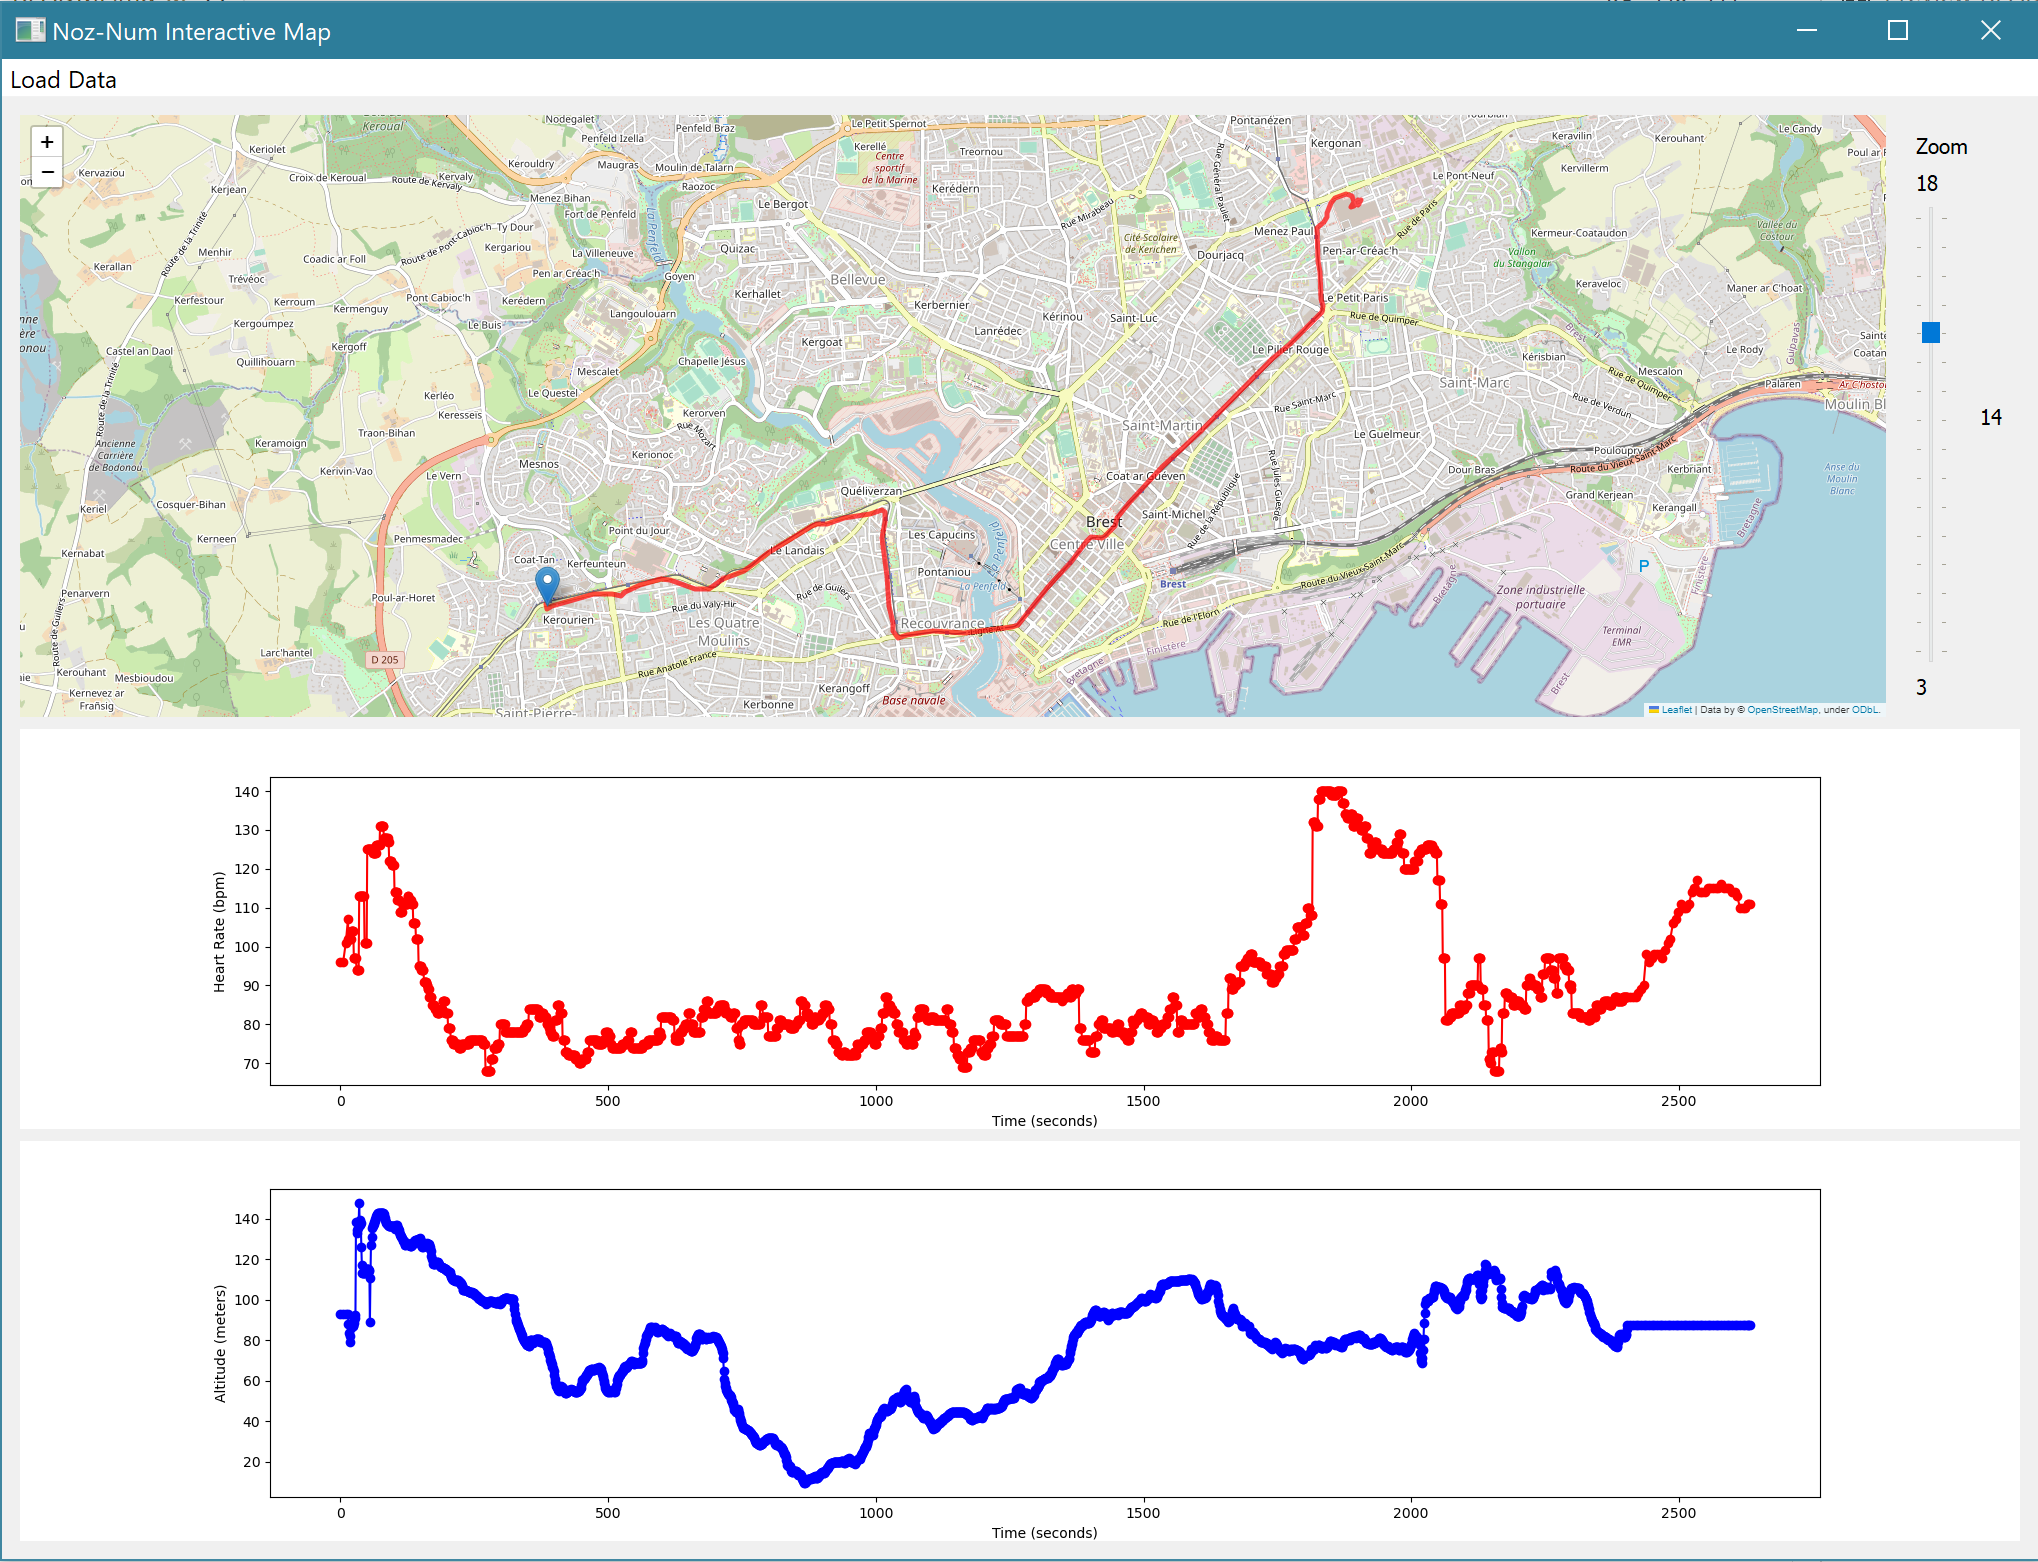
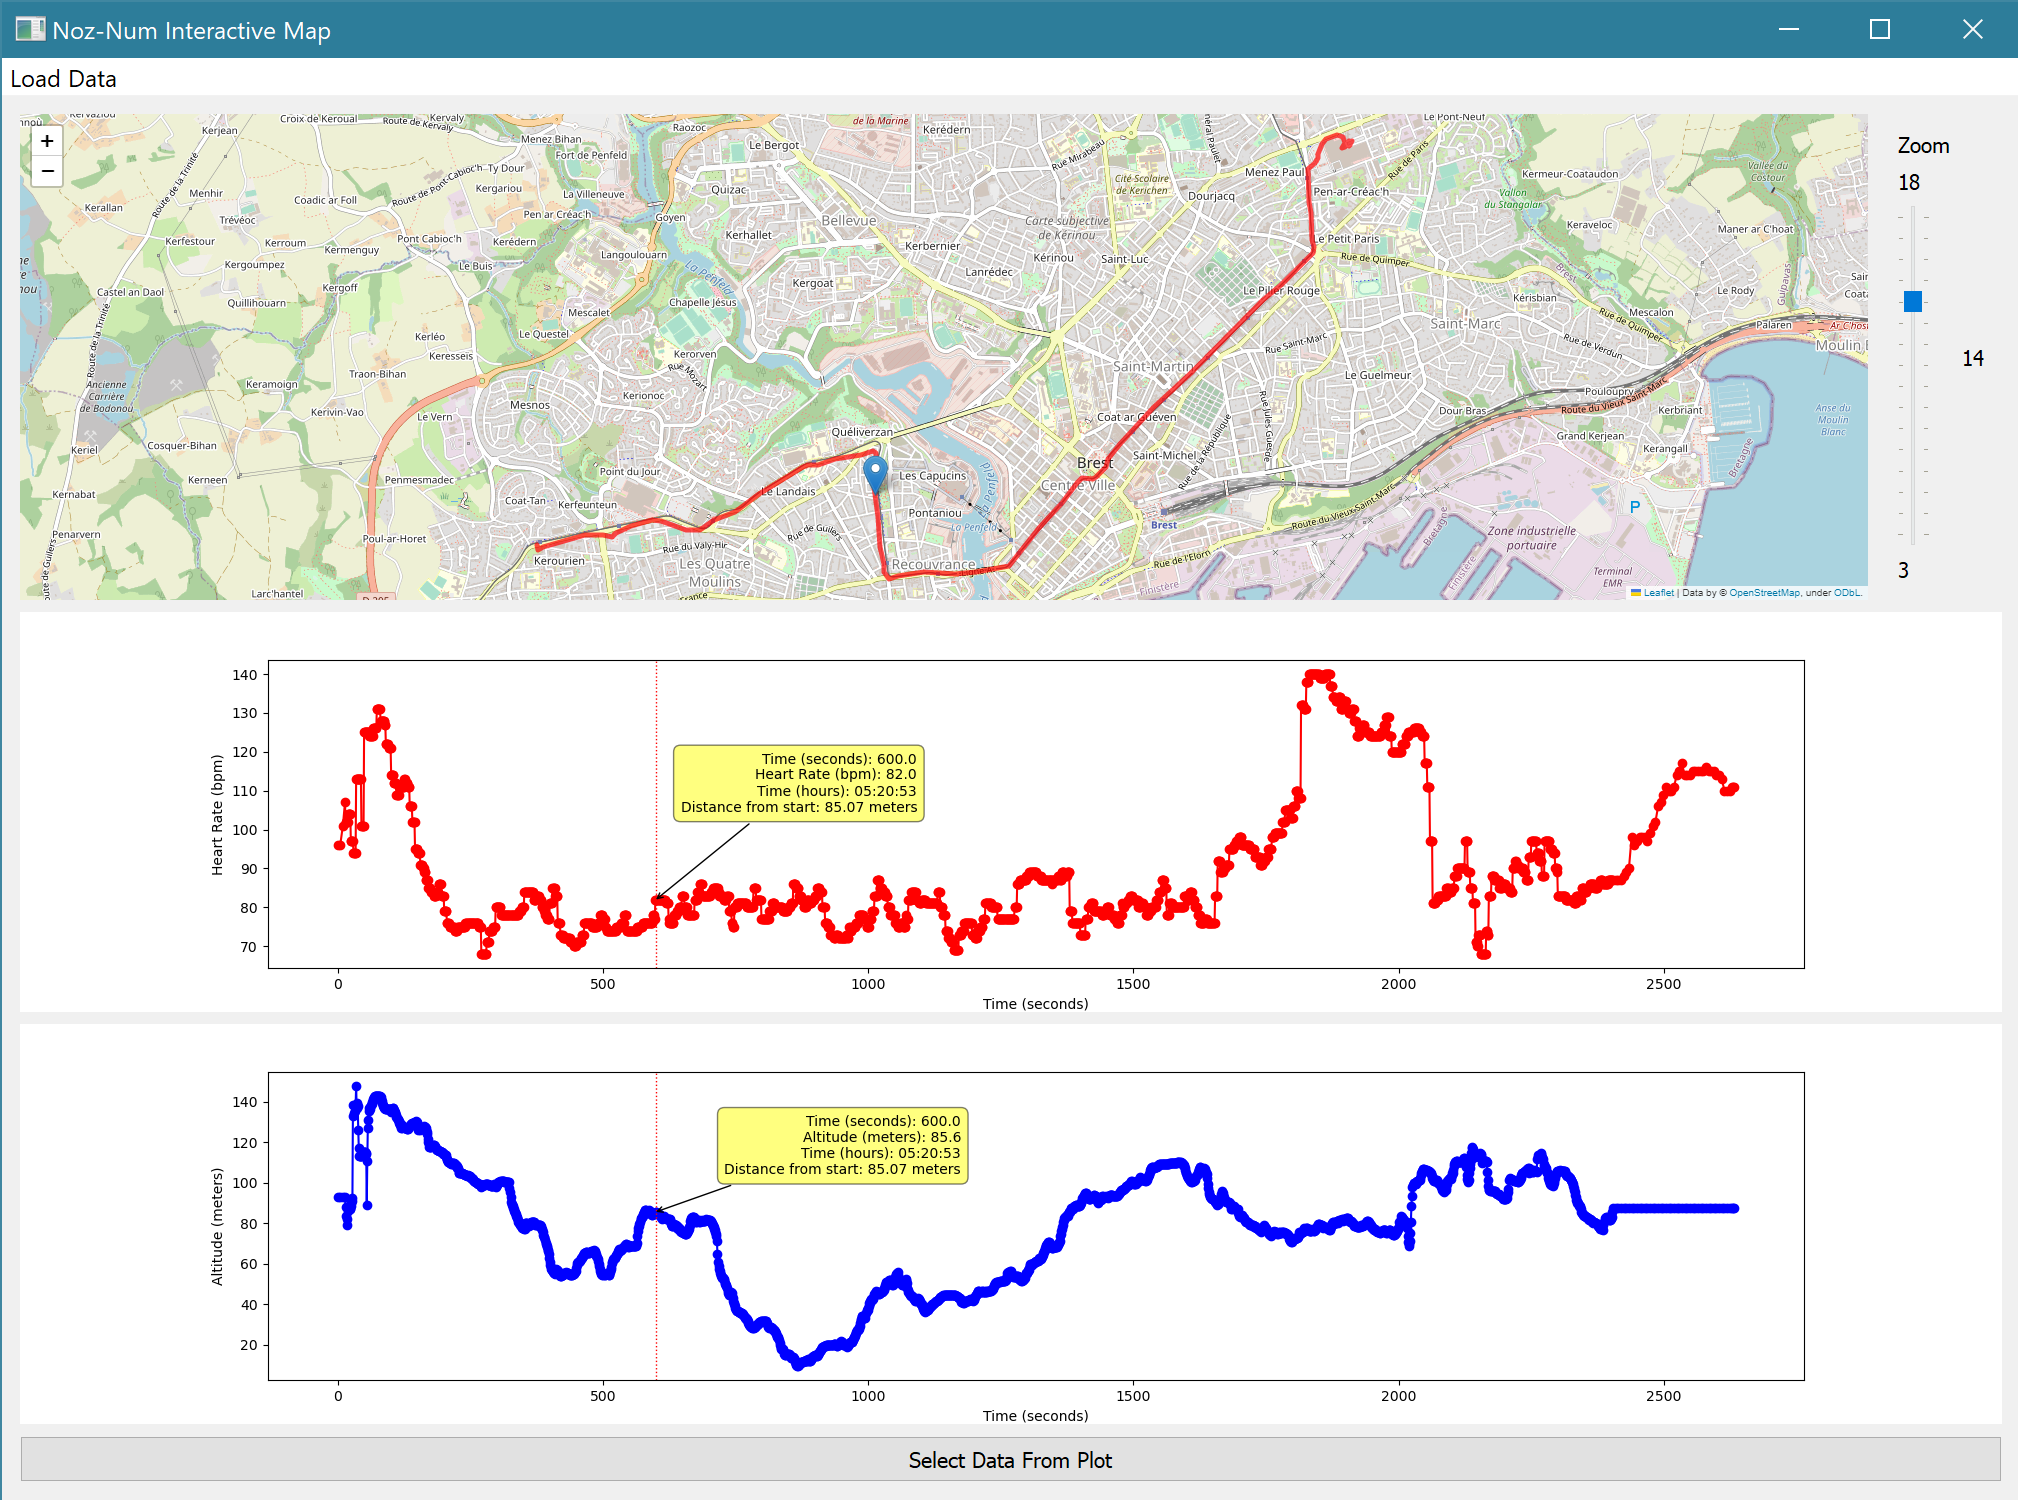
Readme updated with new pictures ; Updated file save popup in main.py

diff --git a/src/main.py b/src/main.py
@@ -208,11 +208,11 @@ class MplCanvas(FigureCanvasQTAgg):
             closest_index = result_df.index[0]
             closest_y = self.y[closest_index]
             t_hours = self.data.th[closest_index]
-            dist_from_start = self.data.dist[closest_index]
+            dist_from_start = round(self.data.dist[closest_index], 2)
         else:
             t_hours = self.data.th.iloc[-1]
             closest_y = self.y[closest_index]
-            dist_from_start = self.data.dist.iloc[-1]
+            dist_from_start = round(self.data.dist.iloc[-2], 2)
         
         # annotation_str = f'{self.axes.get_xlabel()}: {xi}\n{self.axes.get_ylabel()}: {y1}\nTime (hours): {t_hours}' # this one is with interpolation
         # annotation_str = f'Time: {self.data.dt[xi]} seconds\nHeart rate: {self.data.hr[xi]} bpm\nAltitude: {self.data.alt[xi]} meters'
@@ -393,7 +393,7 @@ class MainWindow(QMainWindow):
         current_file = os.path.abspath(sys.argv[0])
         current_dir = os.path.dirname(current_file)
 
-        fulltext = "Data saved successfully to " + current_dir + text + ".csv."
+        fulltext = "Data saved successfully to " + current_dir + "\ " + text + ".csv."
         label = QLabel(fulltext, popup)
         label.setWordWrap(True)
 

diff --git a/README.md b/README.md
@@ -42,12 +42,27 @@ Then, a dialog window will appear as shown on the picture bellow and you'll have
 The picture bellow shows what the window will look like after you've successfully loaded your data.  
 ![](images/step_5.png)  
 The first part of the application is dedicated to the Folium Map generated from OpenStreetMap. It creates a route from the GPS data collected from the smartwatch and automatically plots it to a folium map. The application automatically centers the map so we can see the whole route.  
-On the right side of the map, you can use the cursor to manage the zoom level of the map. It is, by default, set to *13*.  
+On the right side of the map, you can use the cursor to manage the zoom level of the map (see the picture bellow). It is, by default, set to *13*.  
+![](images/step_6.png)
 Beneath the map, two plots are generated :
 - The first curve (red) represents the heart rate (in bpm) as a function of time (seconds).
 - The second curve (blue) represents the altitude (meters) as a function of time (seconds).  
 
 You can also click on any dots of the curves and it will quickly reload the map and create a marker on the position corresponding to the data dot you've clicked on.
+
+Hovering your mouse on any points of the plots displays an annotation in which are written the point's specific data like shown on the following picture.
+![](images/step_7.png)
+
+
+### 5. Save data between two points
+It is possible to save into a `.csv` file the data contained between two points. To do so, you need to click on the button `Select Data From Plot` at the bottom of the window like shown on the picture below. 
+![](images/step_8.png)
+
+After clicking on the button, a popup window will open as shown in the following picture in which you must enter the label of the sub-dataset you want to save.
+![](images/step_9.png)
+Then, after entering your label, you need to click on the `Confirm` button to close the popup.
+
+The program will then record the data contained between the next two clicks you make on the curve. After you clicked on the two selected points, a pop-up window will then open showing the path to the newly created `.csv` file.
 
 
 # Installation 
